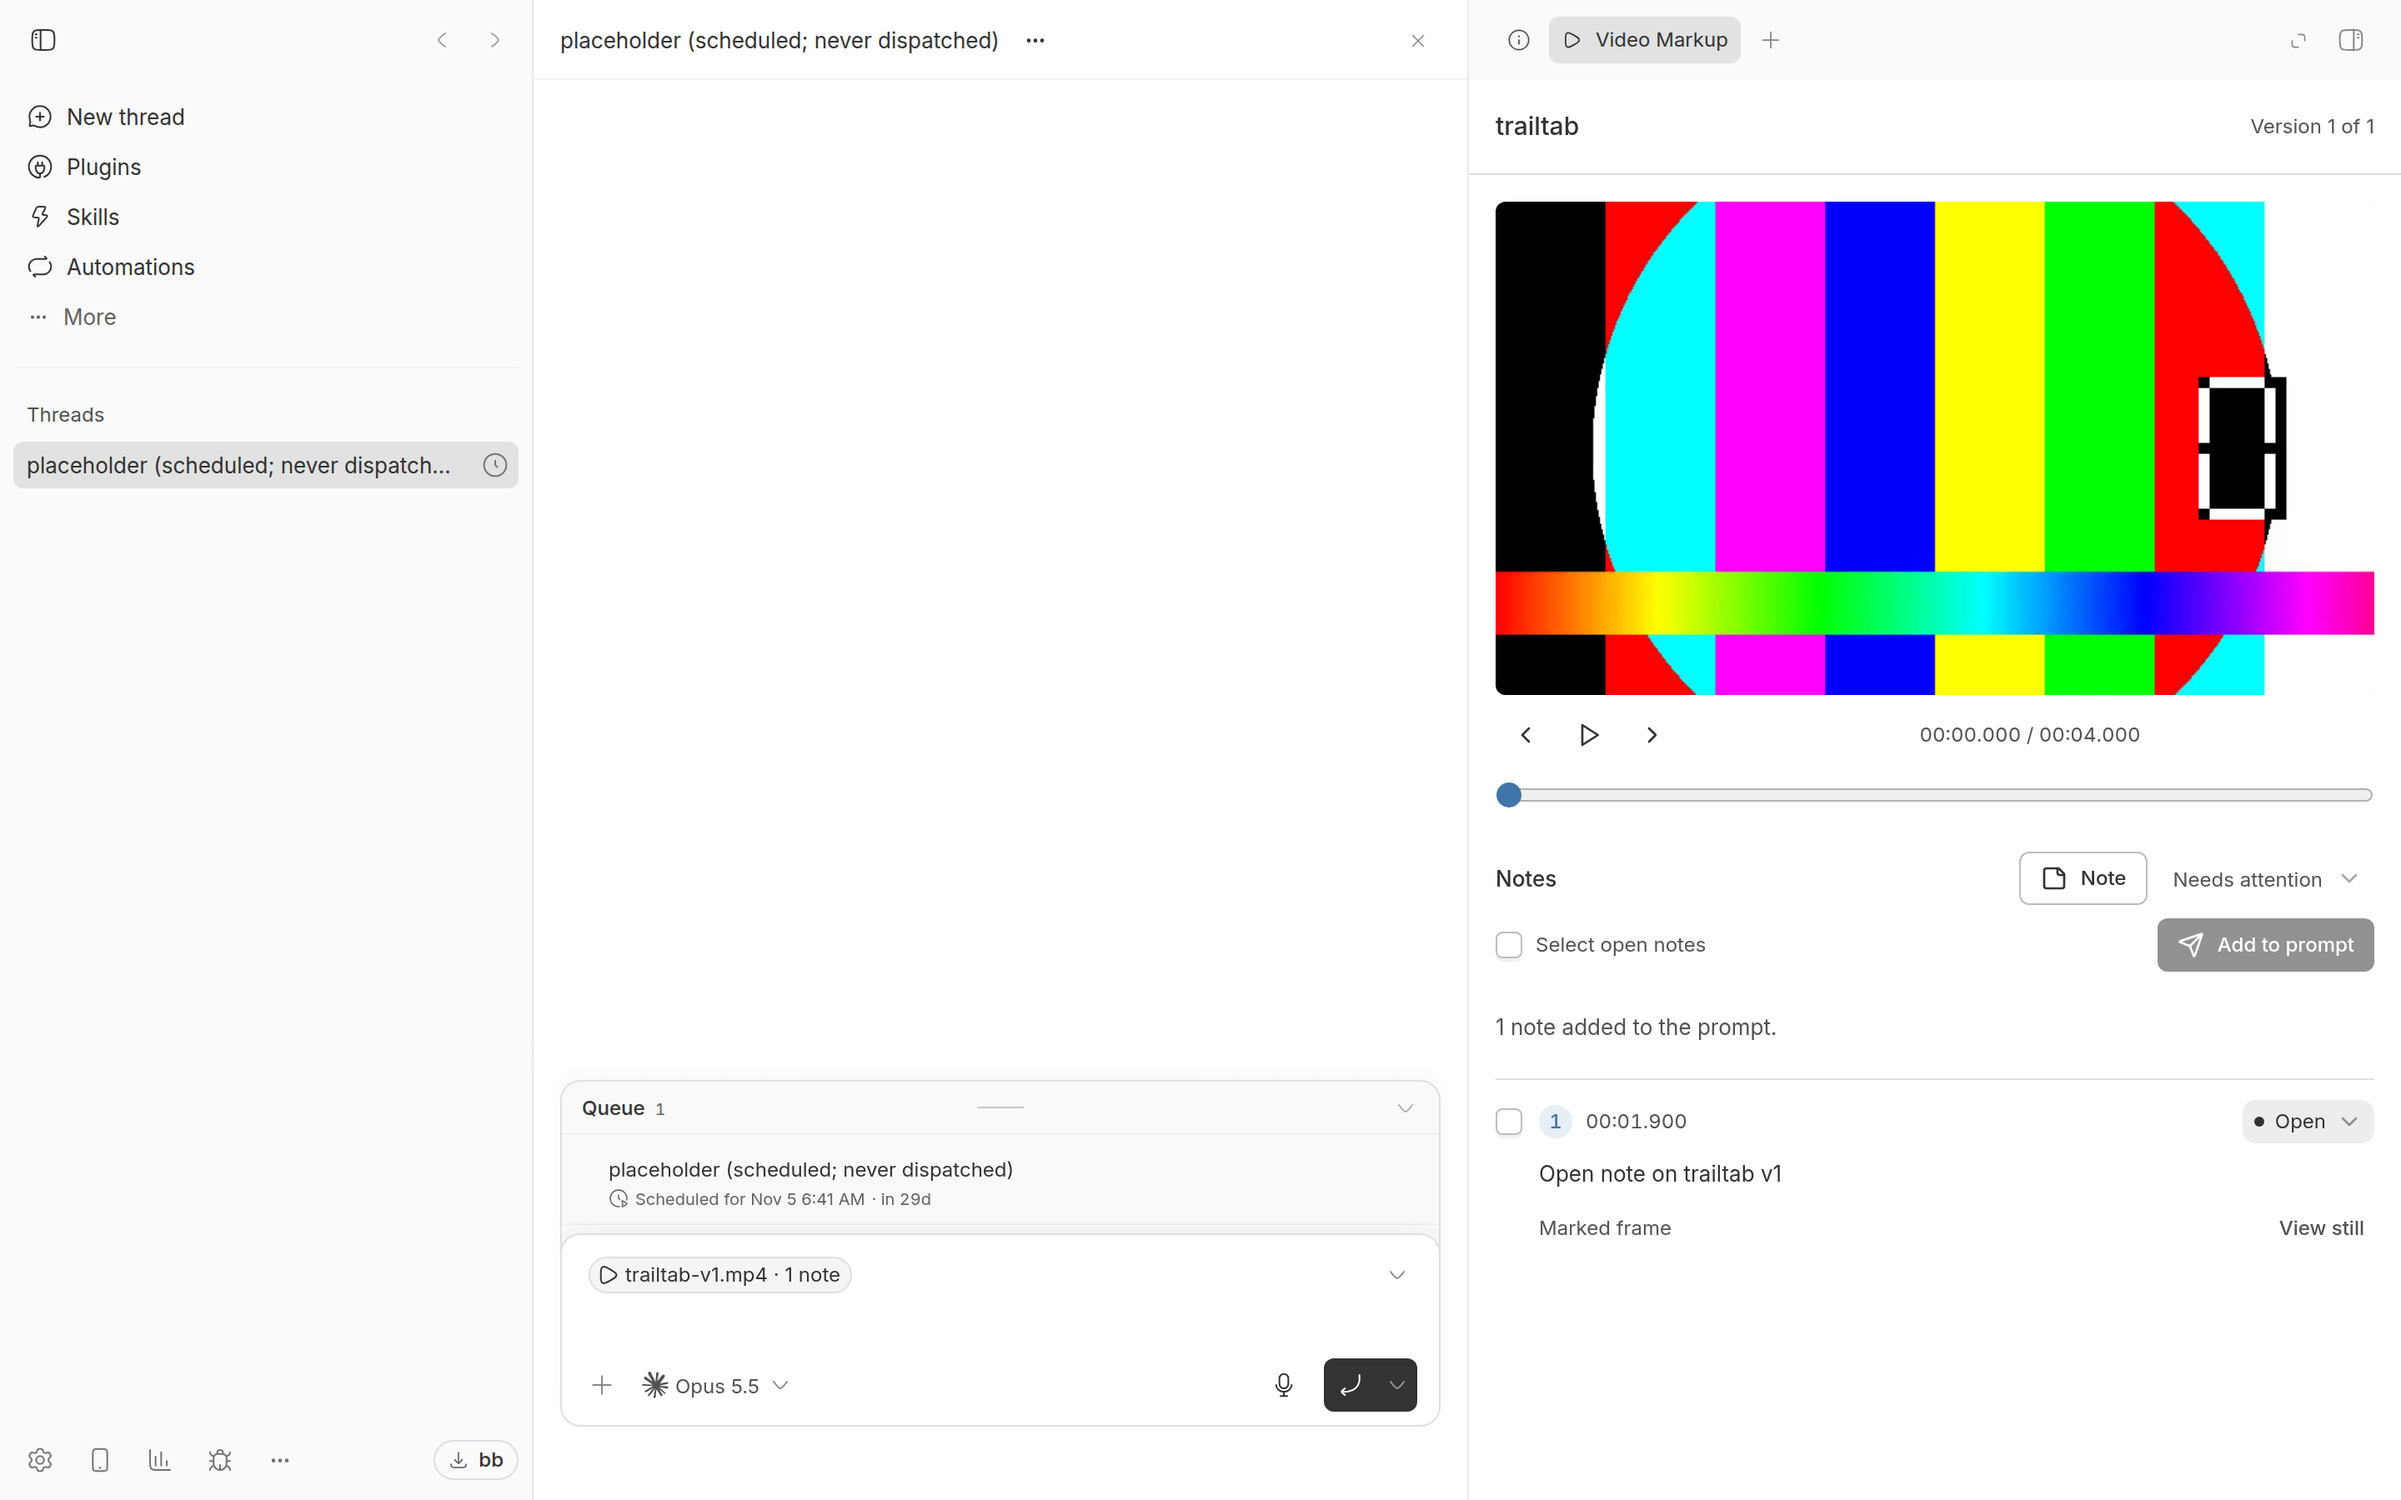
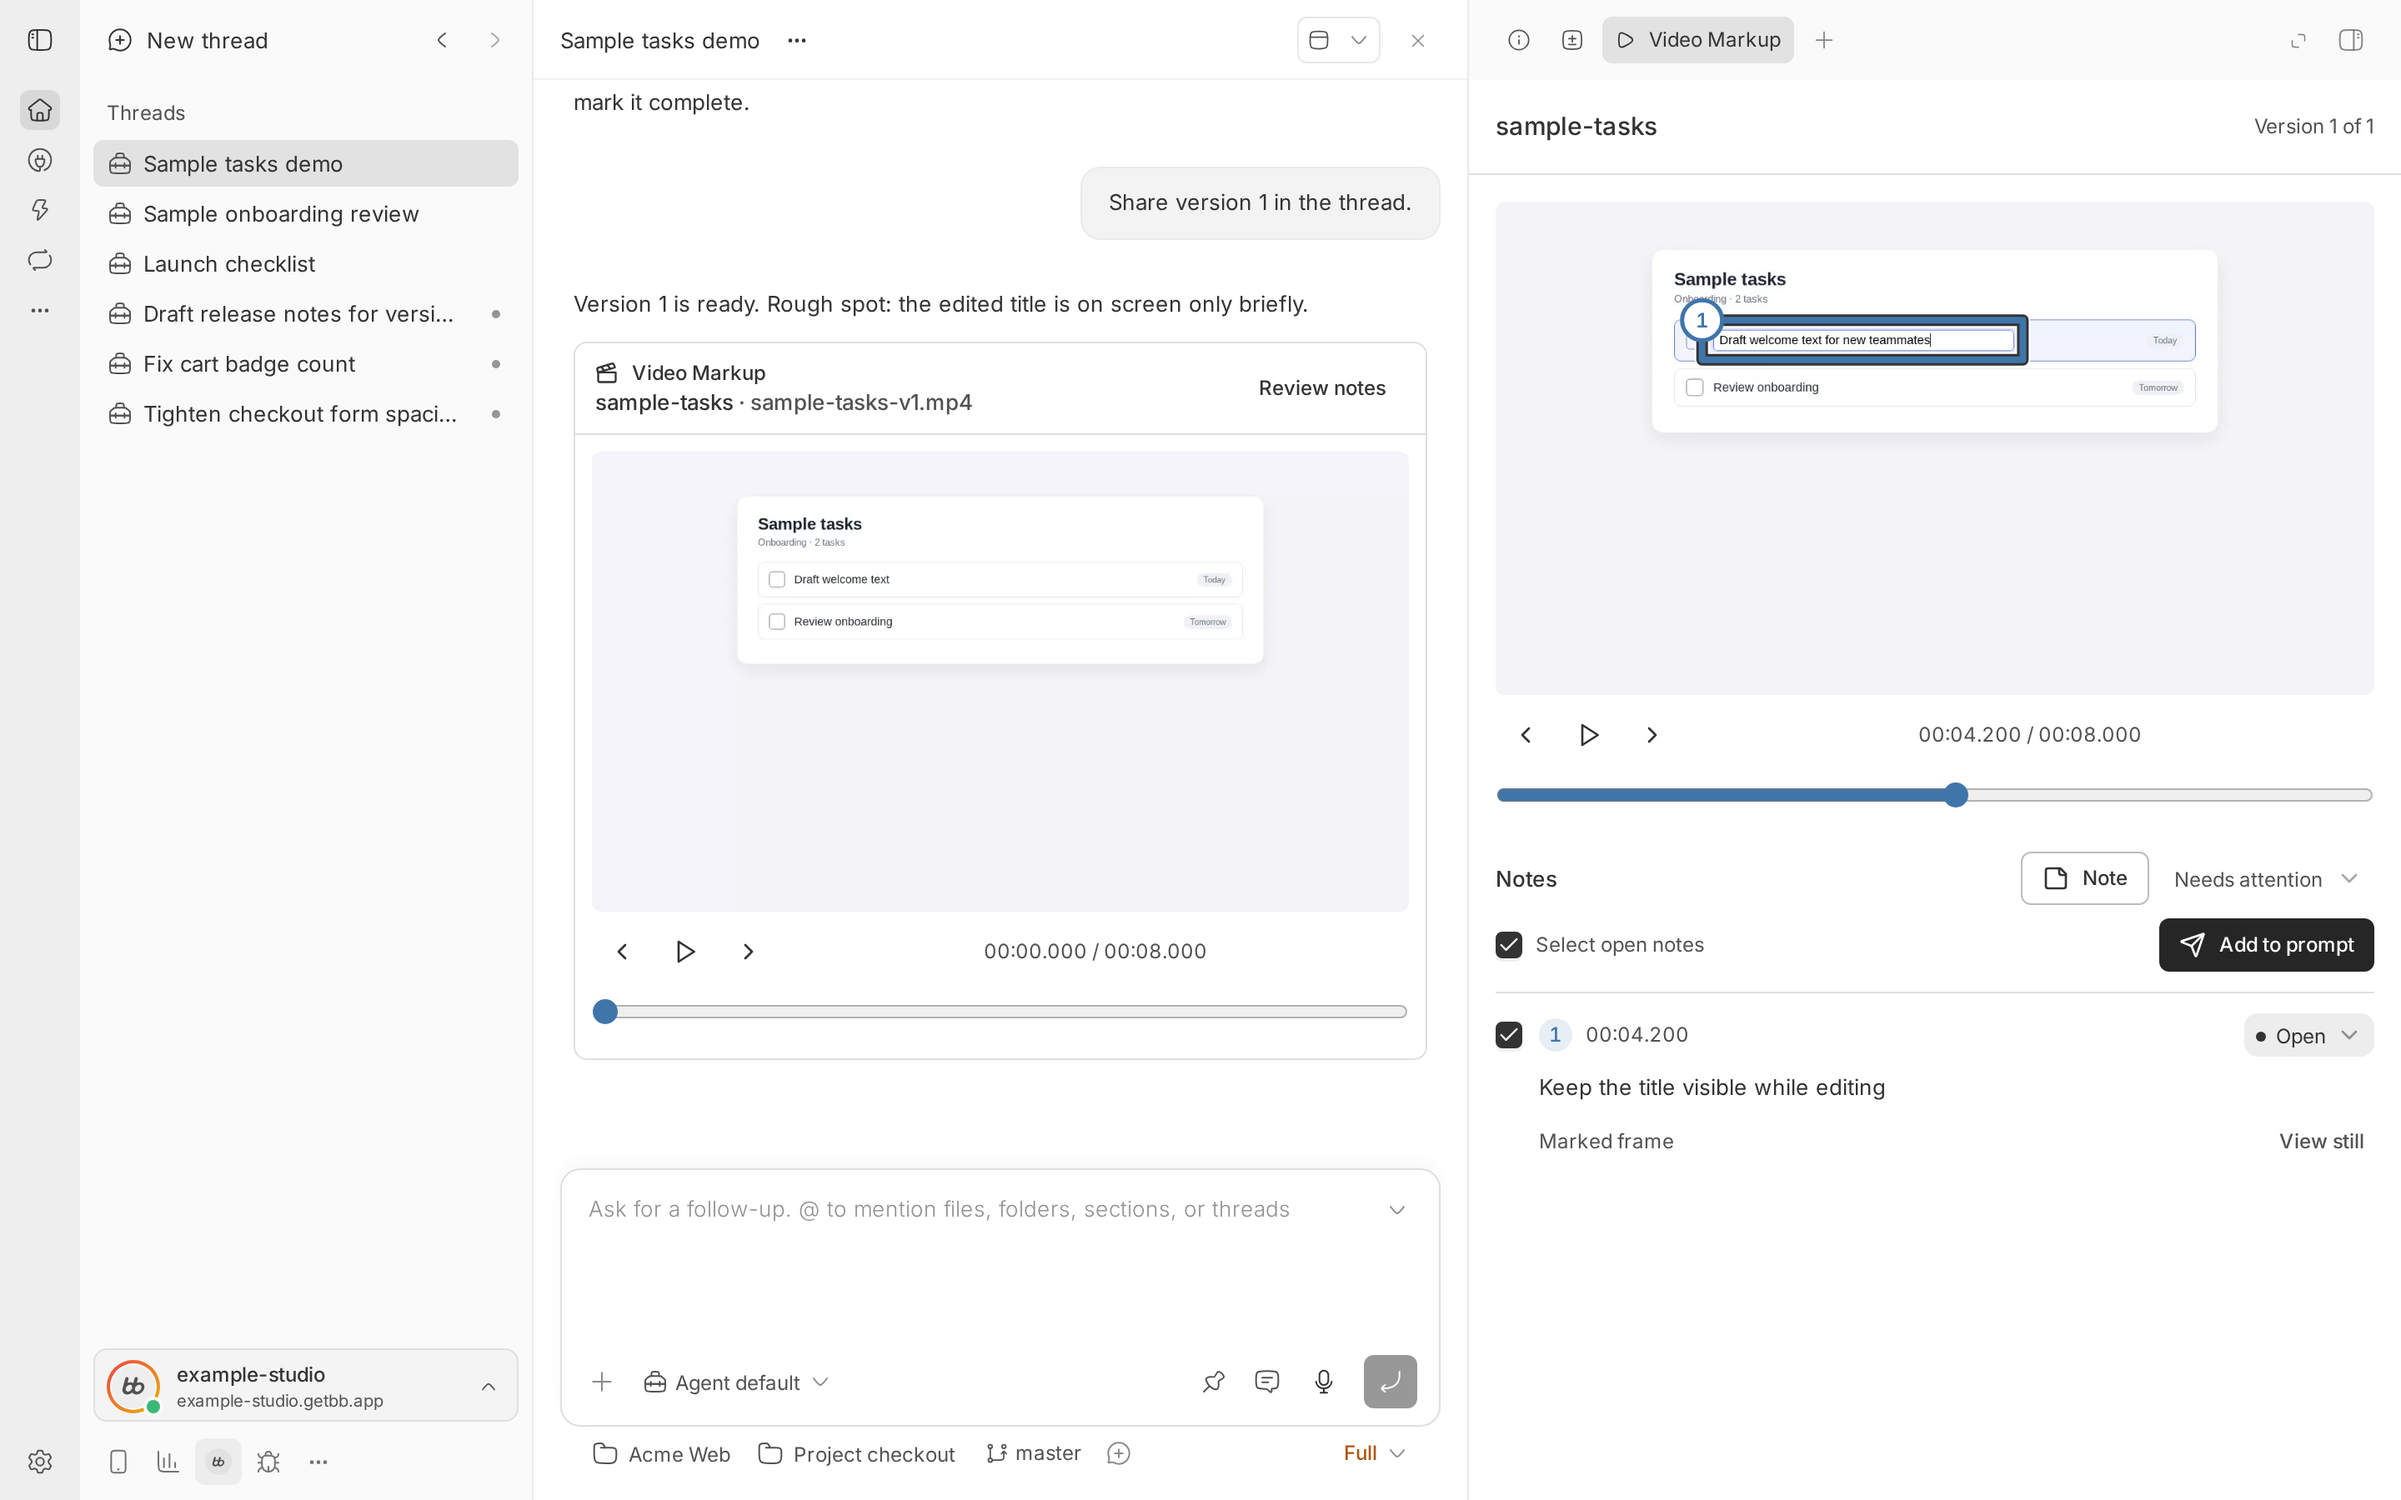
Show Video Markup with a sample tasks clip
Replace the color-bar placeholder with captures of a synthetic sample tasks
recording: the marked frame and selected note, the note carried forward to
version 2 with its original still, and the note handed to the prompt box.

diff --git a/plugins/video-markup/README.md b/plugins/video-markup/README.md
@@ -2,7 +2,7 @@
 
 Review product films without leaving bb. Open a video, mark a paused frame, and hand precise feedback to the agent alongside the captured still. The Video Markup thread panel keeps each demo's versions and unresolved notes together.
 
-![The Video Markup panel with a marked frame, an open frame note, and selected notes in the prompt box](docs/screenshot.png)
+![The Video Markup panel paused on a sample tasks clip, with a box around the edited title and the note "Keep the title visible while editing" selected](docs/screenshot.png)
 
 ## Install
 
@@ -23,6 +23,10 @@ Composer attachments are temporary host files: pass `attachment: true` / `--atta
 Pause and choose **Note** in the Notes section. In the note editor, pick **Box**, **Arrow**, or **Zoom region** to draw on the frame, then type the note. Each note keeps its timestamp, captured still, and drawn shapes. ←/→ step one frame; space plays or pauses while the player is focused. Frame stepping uses packet timestamps, including variable frame rates; the probed or supplied FPS provides a constant-rate fallback if timestamp indexing is unavailable. Zoom regions mark desired focus; they do not alter the rendered film.
 
 Select open notes and choose **Add to prompt**. A composer mention resolves to structured version/time/region feedback plus captured JPEG stills when sent. This preserves the existing draft and leaves sending to the user. Up to 12 notes fit one selection. Notes persist in plugin SQLite storage and sync across clients. Status can be **open**, **fixed**, **still wrong**, or **regressed**. When a new version is registered, every unresolved note in the demo carries forward, including notes left on older versions, from the most recent copy of each note; copied notes preserve their original frame and version provenance.
+
+![Version 2 of the sample tasks clip with the note carried forward and its captured frame from the earlier version](docs/revision-review.png)
+
+![The carried note added to the prompt box as a sample-tasks-v2.mp4 mention, not yet sent](docs/prompt-handoff.png)
 
 Agents post a player using the returned directive, on its own line:
 

diff --git a/README.md b/README.md
@@ -328,7 +328,7 @@ Install: `bb plugin install git:https://github.com/brsbl/bb-plugins.git@plugin/a
 
 Review product films in bb with inline playback, frame annotations, and version history. Send selected feedback and captured frames to the agent, guided by the bundled Product Demo Direction skill.
 
-![The Video Markup panel with a marked frame, an open frame note, and selected notes in the prompt box](plugins/video-markup/docs/screenshot.png)
+![The Video Markup panel paused on a sample tasks clip, with a box around the edited title and the note "Keep the title visible while editing" selected](plugins/video-markup/docs/screenshot.png)
 
 [Source](plugins/video-markup) · [README](plugins/video-markup/README.md)
 
